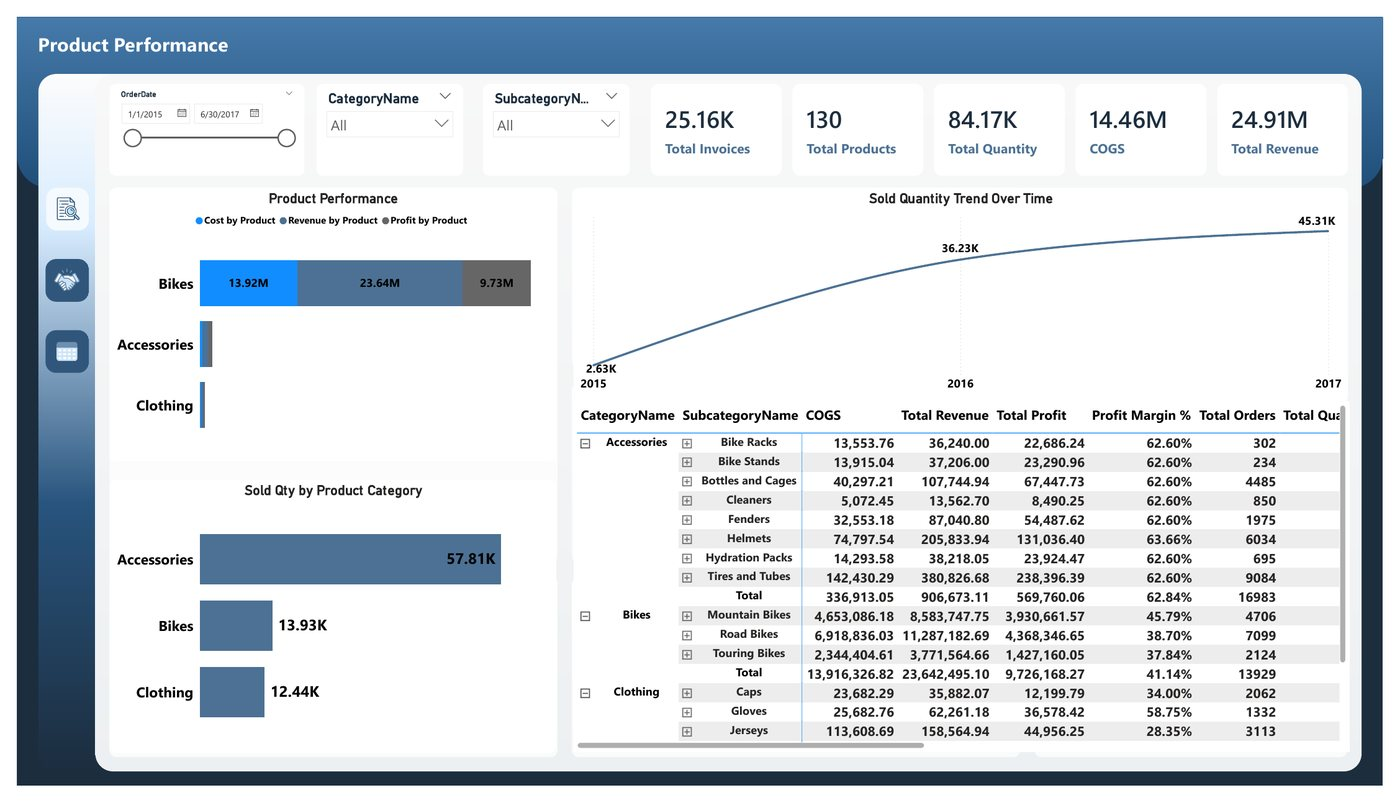
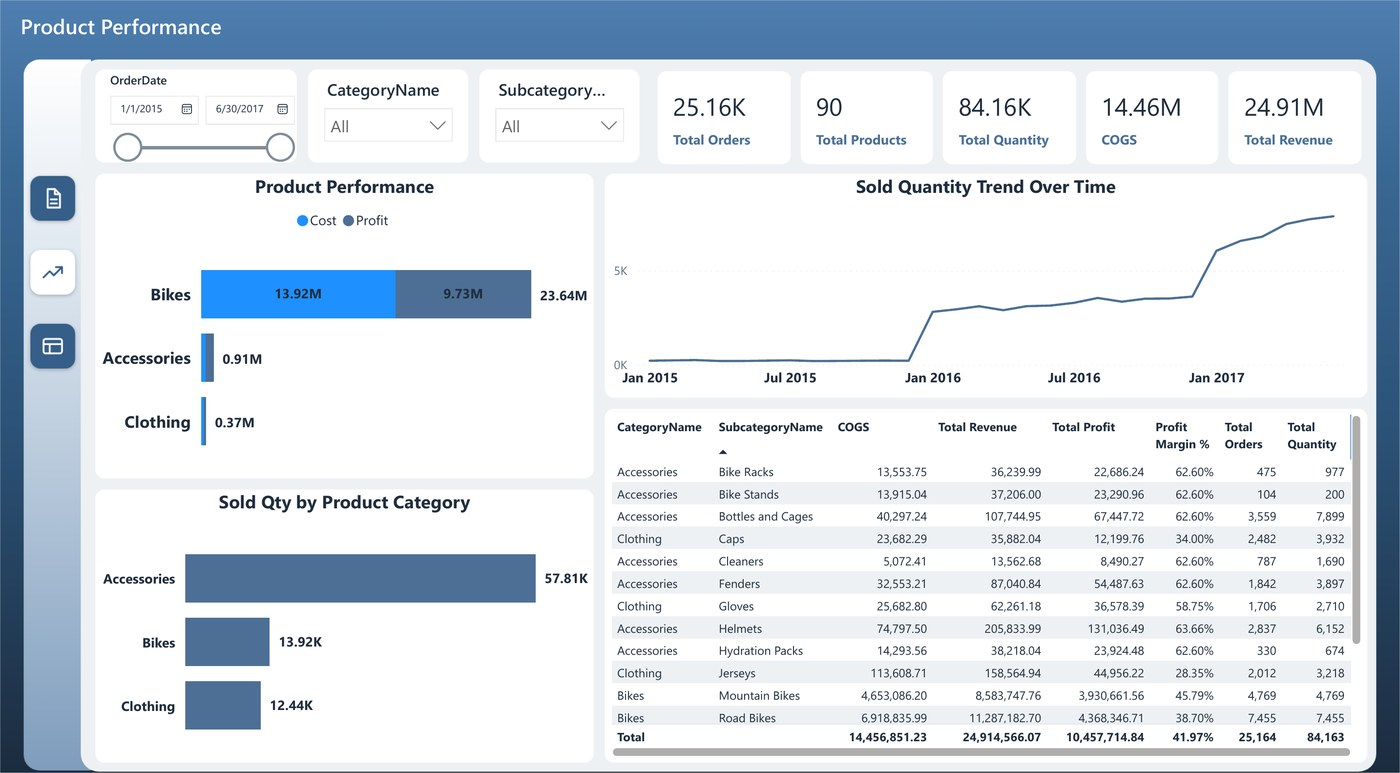
Sales Tracker: screenshots of the rebuilt report

diff --git a/index.html b/index.html
@@ -836,7 +836,7 @@ footer{border-top:1px solid var(--line);padding-block:48px 40px;background:linea
      link:"https://github.com/YoussefSaeed1/vehicle-price-prediction"},
     {t:"Sales Tracker", d:"Sep 2025", cat:"Sales",
      q:"How much does the business depend on one category?",
-     p:"$24.91M revenue at a 41.97% profit margin, and bikes bring in almost 95% of it. Tracks revenue, cost and profit for 2015 to mid‑2017 by category and region.",
+     p:"$24.91M revenue at a 41.97% profit margin, and bikes bring in almost 95% of it (sample data with the original's headline figures). Tracks revenue, cost and profit for 2015 to mid‑2017 by category, region and continent. Cost and profit are stacked so each bar reads as revenue, and 2.17% of units sold come back.",
      tags:["Power BI","DAX"], imgs:["sales-tracker","sales-tracker-2","sales-tracker-3"]},
     {t:"Heart Disease Risk Prediction", d:"Sep 2025", cat:"Machine Learning",
      q:"Can routine clinical tests flag heart disease?",
